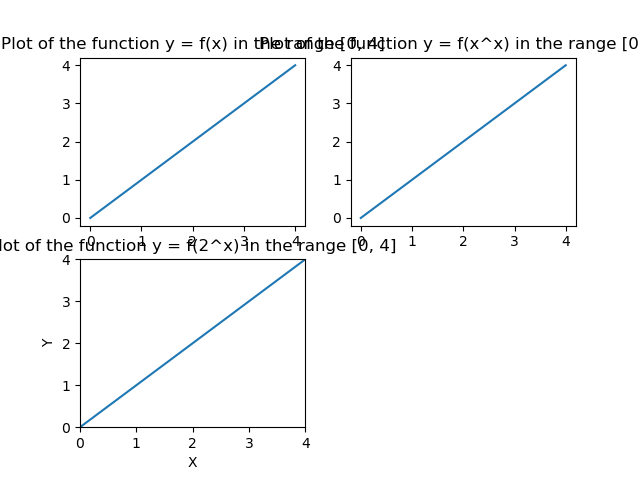
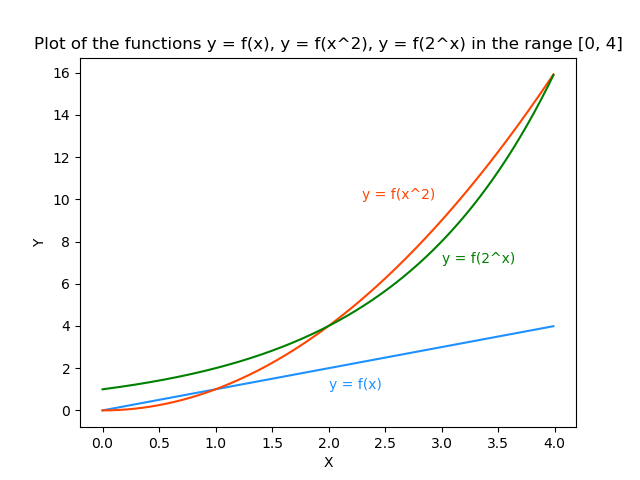
Problem 10 solved

diff --git a/function.py b/function.py
@@ -1,30 +1,31 @@
+# ref: 
+# https://www.digitalocean.com/community/tutorials/how-to-plot-data-in-python-3-using-matplotlib
+# https://docs.scipy.org/doc/numpy-1.15.0/reference/generated/numpy.arange.html
+# https://matplotlib.org/tutorials/introductory/pyplot.html#sphx-glr-tutorials-introductory-pyplot-py
 
-# ref: https://www.digitalocean.com/community/tutorials/how-to-plot-data-in-python-3-using-matplotlib
 # adding matplotlib library
 import matplotlib.pyplot as plt
+import numpy as np
 
-x = range(5)
+# Creating functions and setting the range for x
+# Used numpy arange function (start, stop, step)(Return evenly spaced values within a given interval)
+x = np.arange(0.0, 4.0, 0.01)
 y = x
+y2 = x * x
+y3 = 2 ** x
 
+# Plot functions
+plt.plot(x,y, color = "dodgerblue")
+plt.plot(x,y2, color = "orangered")
+plt.plot(x,y3, color = "green")
 
-plt.subplot(221)
-plt.plot(x,y)
 # naming the graph
-plt.title("Plot of the function y = f(x) in the range [0, 4]")
+plt.title("Plot of the functions y = f(x), y = f(x^2), y = f(2^x) in the range [0, 4]")
 
-plt.subplot(222)
-plt.plot(x,y)
-# naming the graph
-plt.title("Plot of the function y = f(x^x) in the range [0, 4]")
-
-plt.subplot(223)
-plt.plot(x,y)
-# naming the graph
-plt.title("Plot of the function y = f(2^x) in the range [0, 4]")
-
-# setting a range for X and Y axes
-plt.xlim(0,4)
-plt.ylim(0,4)
+# adding names as text for each plot
+plt.text(2, 1, "y = f(x)", color = "dodgerblue")
+plt.text(2.3, 10, "y = f(x^2)", color = "orangered")
+plt.text(3, 7, "y = f(2^x)", color = "green")
 
 # adding the name for X and Y axes
 plt.xlabel("X")
@@ -35,4 +36,5 @@ plt.savefig("plot_of_functions.png")
 
 # show results in the graph
 plt.show()
+
 

diff --git a/Readme.md b/Readme.md
@@ -25,13 +25,14 @@ https://github.com/JuliaMal/pands_problem_set
 2. The file collatz.py contains solution for a problem #4
 3. The file divisors.py contains solution for a problem #3
 4. The file function.py contains solution for a problem #10
-5. The file primes.py contains solution for a problem #5
-6. The file Romeo_and_Juliet.py contains a prologue from the famous play written by William Shakespeare. This file is used in the solution for a problem #9
-7. The file second.py contains solution for a problem #9
-8. The file secondstring.py contains solution for a problem #6
-9. The file squareroot.py contains solution for a problem #7
-10. The file sumupto.py contains solution for a problem #1
-11. The file today-date.py contains solution for a problem #8
+5. The file plot_of_functions.png contains graphs for a problem #10
+6. The file primes.py contains solution for a problem #5
+7. The file Romeo_and_Juliet.py contains a prologue from the famous play written by William Shakespeare. This file is used in the solution for a problem #9
+8. The file second.py contains solution for a problem #9
+9. The file secondstring.py contains solution for a problem #6
+10. The file squareroot.py contains solution for a problem #7
+11. The file sumupto.py contains solution for a problem #1
+12. The file today-date.py contains solution for a problem #8
 
 
 # References
@@ -46,3 +47,7 @@ To get more familiar with the Python and coding itself, I have used the followin
     - https://stackoverflow.com/questions/38863210/how-to-make-pythons-datetime-object-show-am-and-pm-in-lowercase
     - https://discuss.codecademy.com/t/how-to-convert-to-12-hour-clock/3920
     - https://stackoverflow.com/questions/2847386/python-string-and-integer-concatenation
+7. How to plot using matplotlib and numpy:
+    - https://www.digitalocean.com/community/tutorials/how-to-plot-data-in-python-3-using-matplotlib
+    - https://docs.scipy.org/doc/numpy-1.15.0/reference/generated/numpy.arange.html
+    - https://matplotlib.org/tutorials/introductory/pyplot.html#sphx-glr-tutorials-introductory-pyplot-py
